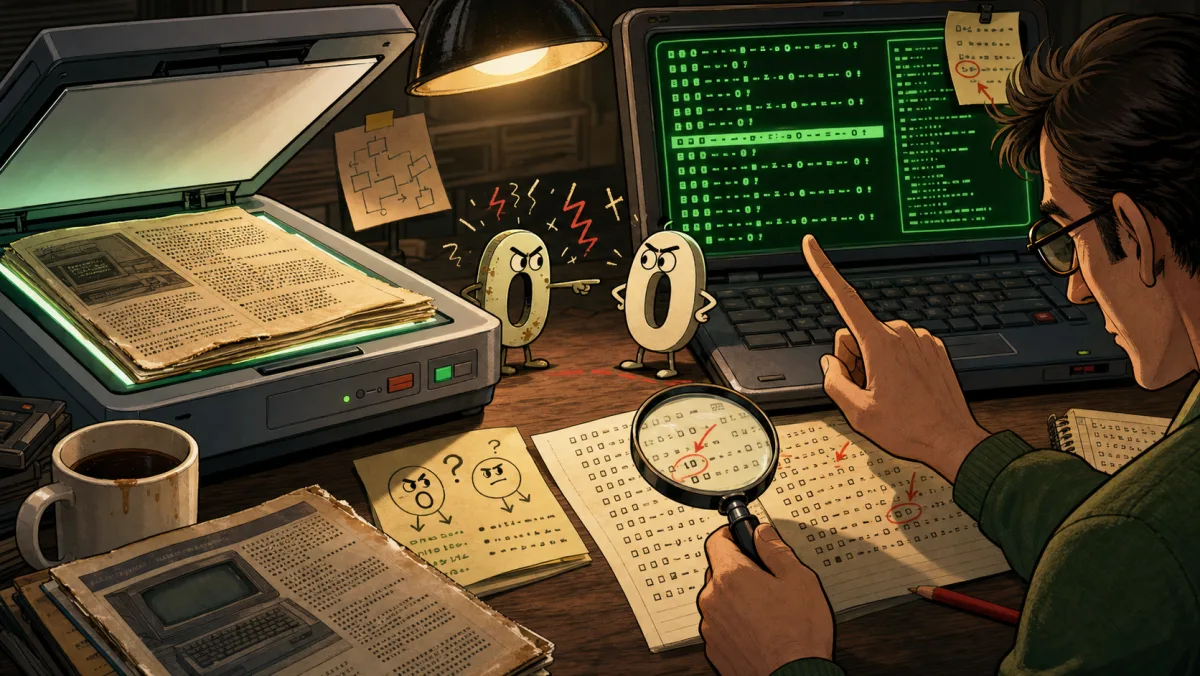
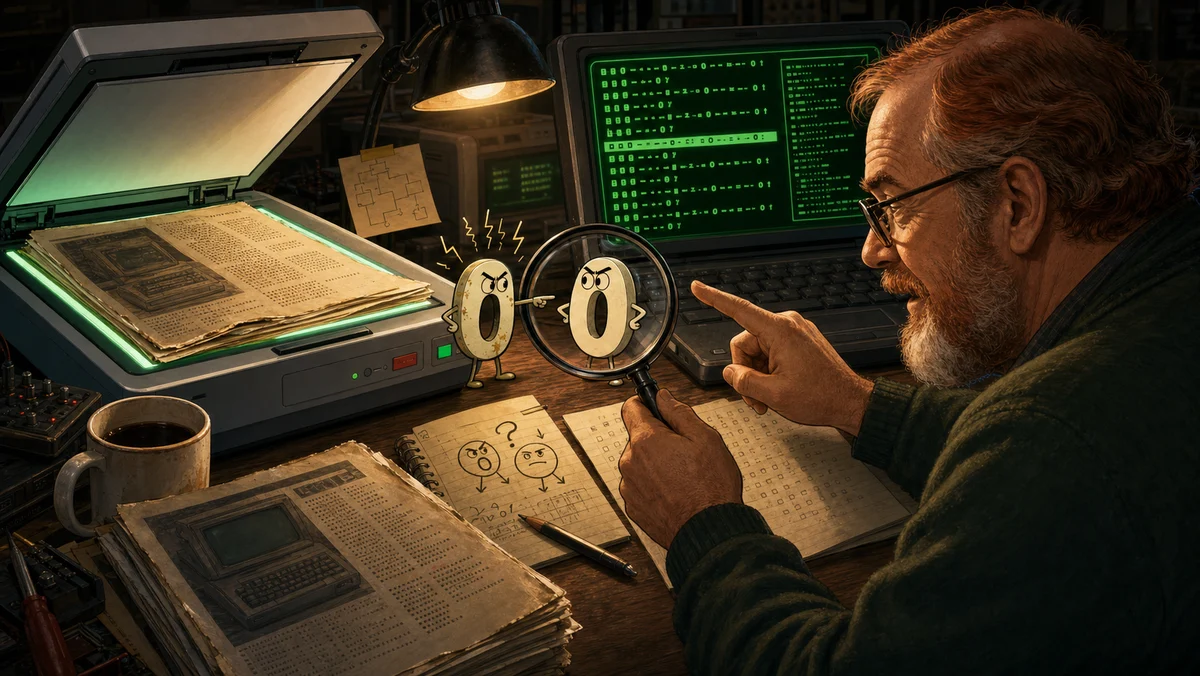
Redraw 2026 history images

diff --git a/tools/i18n-source/html/history.html b/tools/i18n-source/html/history.html
@@ -93,7 +93,7 @@
       </section>
 
       <figure class="story-figure">
-        <img loading="lazy" width="1200" height="676" src="../images/pages/ocr-detective.webp" alt="Old magazine pages being scanned while a zero and a capital O argue under a magnifying glass." />
+        <img loading="lazy" width="1200" height="676" src="../images/pages/ocr-detective.webp" alt="An older red-and-gray-bearded programmer scans old magazine pages while a zero and a capital O argue under a magnifying glass." />
         <figcaption>Recovering the game from paper &mdash; the magnifying-glass detective work begins.</figcaption>
       </figure>
 
@@ -104,7 +104,7 @@
       </section>
 
       <figure class="story-figure">
-        <img loading="lazy" width="1200" height="676" src="../images/pages/web-resurrection.webp" alt="An old CRT BASIC game transforming into a modern browser game with two glowing AI helper silhouettes." />
+        <img loading="lazy" width="1200" height="676" src="../images/pages/web-resurrection.webp" alt="An older red-and-gray-bearded programmer watches an old CRT BASIC game transform into a modern browser game with glowing AI helpers." />
         <figcaption>2026: the old CRT game steps into the browser.</figcaption>
       </figure>
 
@@ -176,7 +176,7 @@
       </section>
 
       <figure class="story-figure">
-        <img loading="lazy" width="1200" height="676" src="../images/pages/ocr-detective.webp" alt="Oude tijdschriftpagina's onder een scanner, terwijl een nul en hoofdletter O ruziemaken onder een vergrootglas." />
+        <img loading="lazy" width="1200" height="676" src="../images/pages/ocr-detective.webp" alt="Een oudere programmeur met rode/grijze baard scant oude tijdschriftpagina's, terwijl een nul en hoofdletter O ruziemaken onder een vergrootglas." />
         <figcaption>De game terughalen van papier &mdash; het vergrootglas-speurwerk begint.</figcaption>
       </figure>
 
@@ -187,7 +187,7 @@
       </section>
 
       <figure class="story-figure">
-        <img loading="lazy" width="1200" height="676" src="../images/pages/web-resurrection.webp" alt="Een oud CRT BASIC-spel dat verandert in een moderne browsergame met twee gloeiende AI-helper silhouetten." />
+        <img loading="lazy" width="1200" height="676" src="../images/pages/web-resurrection.webp" alt="Een oudere programmeur met rode/grijze baard ziet een oud CRT BASIC-spel veranderen in een moderne browsergame met gloeiende AI-helpers." />
         <figcaption>2026: het oude CRT-spel stapt de browser in.</figcaption>
       </figure>
 
@@ -230,7 +230,7 @@
       </section>
 
       <figure class="story-figure">
-        <img loading="lazy" width="1200" height="676" src="../images/pages/ocr-detective.webp" alt="Старі журнальні сторінки під сканером, а нуль і літера O сперечаються під лупою." />
+        <img loading="lazy" width="1200" height="676" src="../images/pages/ocr-detective.webp" alt="Старший програміст із рудо-сивою бородою сканує старі журнальні сторінки, а нуль і літера O сперечаються під лупою." />
         <figcaption>Повернення гри з паперу почалося з OCR і уважної перевірки кожного символу.</figcaption>
       </figure>
 
@@ -252,7 +252,7 @@
       </section>
 
       <figure class="story-figure">
-        <img loading="lazy" width="1200" height="676" src="../images/pages/web-resurrection.webp" alt="Стара CRT BASIC-гра переходить у сучасну браузерну гру." />
+        <img loading="lazy" width="1200" height="676" src="../images/pages/web-resurrection.webp" alt="Старший програміст із рудо-сивою бородою дивиться, як стара CRT BASIC-гра переходить у сучасну браузерну гру з AI-помічниками." />
         <figcaption>2026: гра з CRT переходить у браузер.</figcaption>
       </figure>
 

diff --git a/docs/en/history.html b/docs/en/history.html
@@ -117,7 +117,7 @@
       </section>
 
       <figure class="story-figure">
-        <img loading="lazy" width="1200" height="676" src="../images/pages/ocr-detective.webp" alt="Old magazine pages being scanned while a zero and a capital O argue under a magnifying glass." />
+        <img loading="lazy" width="1200" height="676" src="../images/pages/ocr-detective.webp" alt="An older red-and-gray-bearded programmer scans old magazine pages while a zero and a capital O argue under a magnifying glass." />
         <figcaption>Recovering the game from paper &mdash; the magnifying-glass detective work begins.</figcaption>
       </figure>
 
@@ -128,7 +128,7 @@
       </section>
 
       <figure class="story-figure">
-        <img loading="lazy" width="1200" height="676" src="../images/pages/web-resurrection.webp" alt="An old CRT BASIC game transforming into a modern browser game with two glowing AI helper silhouettes." />
+        <img loading="lazy" width="1200" height="676" src="../images/pages/web-resurrection.webp" alt="An older red-and-gray-bearded programmer watches an old CRT BASIC game transform into a modern browser game with glowing AI helpers." />
         <figcaption>2026: the old CRT game steps into the browser.</figcaption>
       </figure>
 

diff --git a/docs/nl/history.html b/docs/nl/history.html
@@ -117,7 +117,7 @@
       </section>
 
       <figure class="story-figure">
-        <img loading="lazy" width="1200" height="676" src="../images/pages/ocr-detective.webp" alt="Oude tijdschriftpagina's onder een scanner, terwijl een nul en hoofdletter O ruziemaken onder een vergrootglas." />
+        <img loading="lazy" width="1200" height="676" src="../images/pages/ocr-detective.webp" alt="Een oudere programmeur met rode/grijze baard scant oude tijdschriftpagina's, terwijl een nul en hoofdletter O ruziemaken onder een vergrootglas." />
         <figcaption>De game terughalen van papier &mdash; het vergrootglas-speurwerk begint.</figcaption>
       </figure>
 
@@ -128,7 +128,7 @@
       </section>
 
       <figure class="story-figure">
-        <img loading="lazy" width="1200" height="676" src="../images/pages/web-resurrection.webp" alt="Een oud CRT BASIC-spel dat verandert in een moderne browsergame met twee gloeiende AI-helper silhouetten." />
+        <img loading="lazy" width="1200" height="676" src="../images/pages/web-resurrection.webp" alt="Een oudere programmeur met rode/grijze baard ziet een oud CRT BASIC-spel veranderen in een moderne browsergame met gloeiende AI-helpers." />
         <figcaption>2026: het oude CRT-spel stapt de browser in.</figcaption>
       </figure>
 

diff --git a/docs/uk/history.html b/docs/uk/history.html
@@ -88,7 +88,7 @@
       </section>
 
       <figure class="story-figure">
-        <img loading="lazy" width="1200" height="676" src="../images/pages/ocr-detective.webp" alt="Старі журнальні сторінки під сканером, а нуль і літера O сперечаються під лупою." />
+        <img loading="lazy" width="1200" height="676" src="../images/pages/ocr-detective.webp" alt="Старший програміст із рудо-сивою бородою сканує старі журнальні сторінки, а нуль і літера O сперечаються під лупою." />
         <figcaption>Повернення гри з паперу почалося з OCR і уважної перевірки кожного символу.</figcaption>
       </figure>
 
@@ -110,7 +110,7 @@
       </section>
 
       <figure class="story-figure">
-        <img loading="lazy" width="1200" height="676" src="../images/pages/web-resurrection.webp" alt="Стара CRT BASIC-гра переходить у сучасну браузерну гру." />
+        <img loading="lazy" width="1200" height="676" src="../images/pages/web-resurrection.webp" alt="Старший програміст із рудо-сивою бородою дивиться, як стара CRT BASIC-гра переходить у сучасну браузерну гру з AI-помічниками." />
         <figcaption>2026: гра з CRT переходить у браузер.</figcaption>
       </figure>
 

diff --git a/docs/sw.js b/docs/sw.js
@@ -1,6 +1,6 @@
 'use strict';
 
-const CACHE_NAME = 'sneekie-offline-v68';
+const CACHE_NAME = 'sneekie-offline-v69';
 
 /* Precache only the lightweight app shell: HTML, CSS, JS, the BASIC
    source, the manifest, and the small icons. The heavy magazine scans and manual